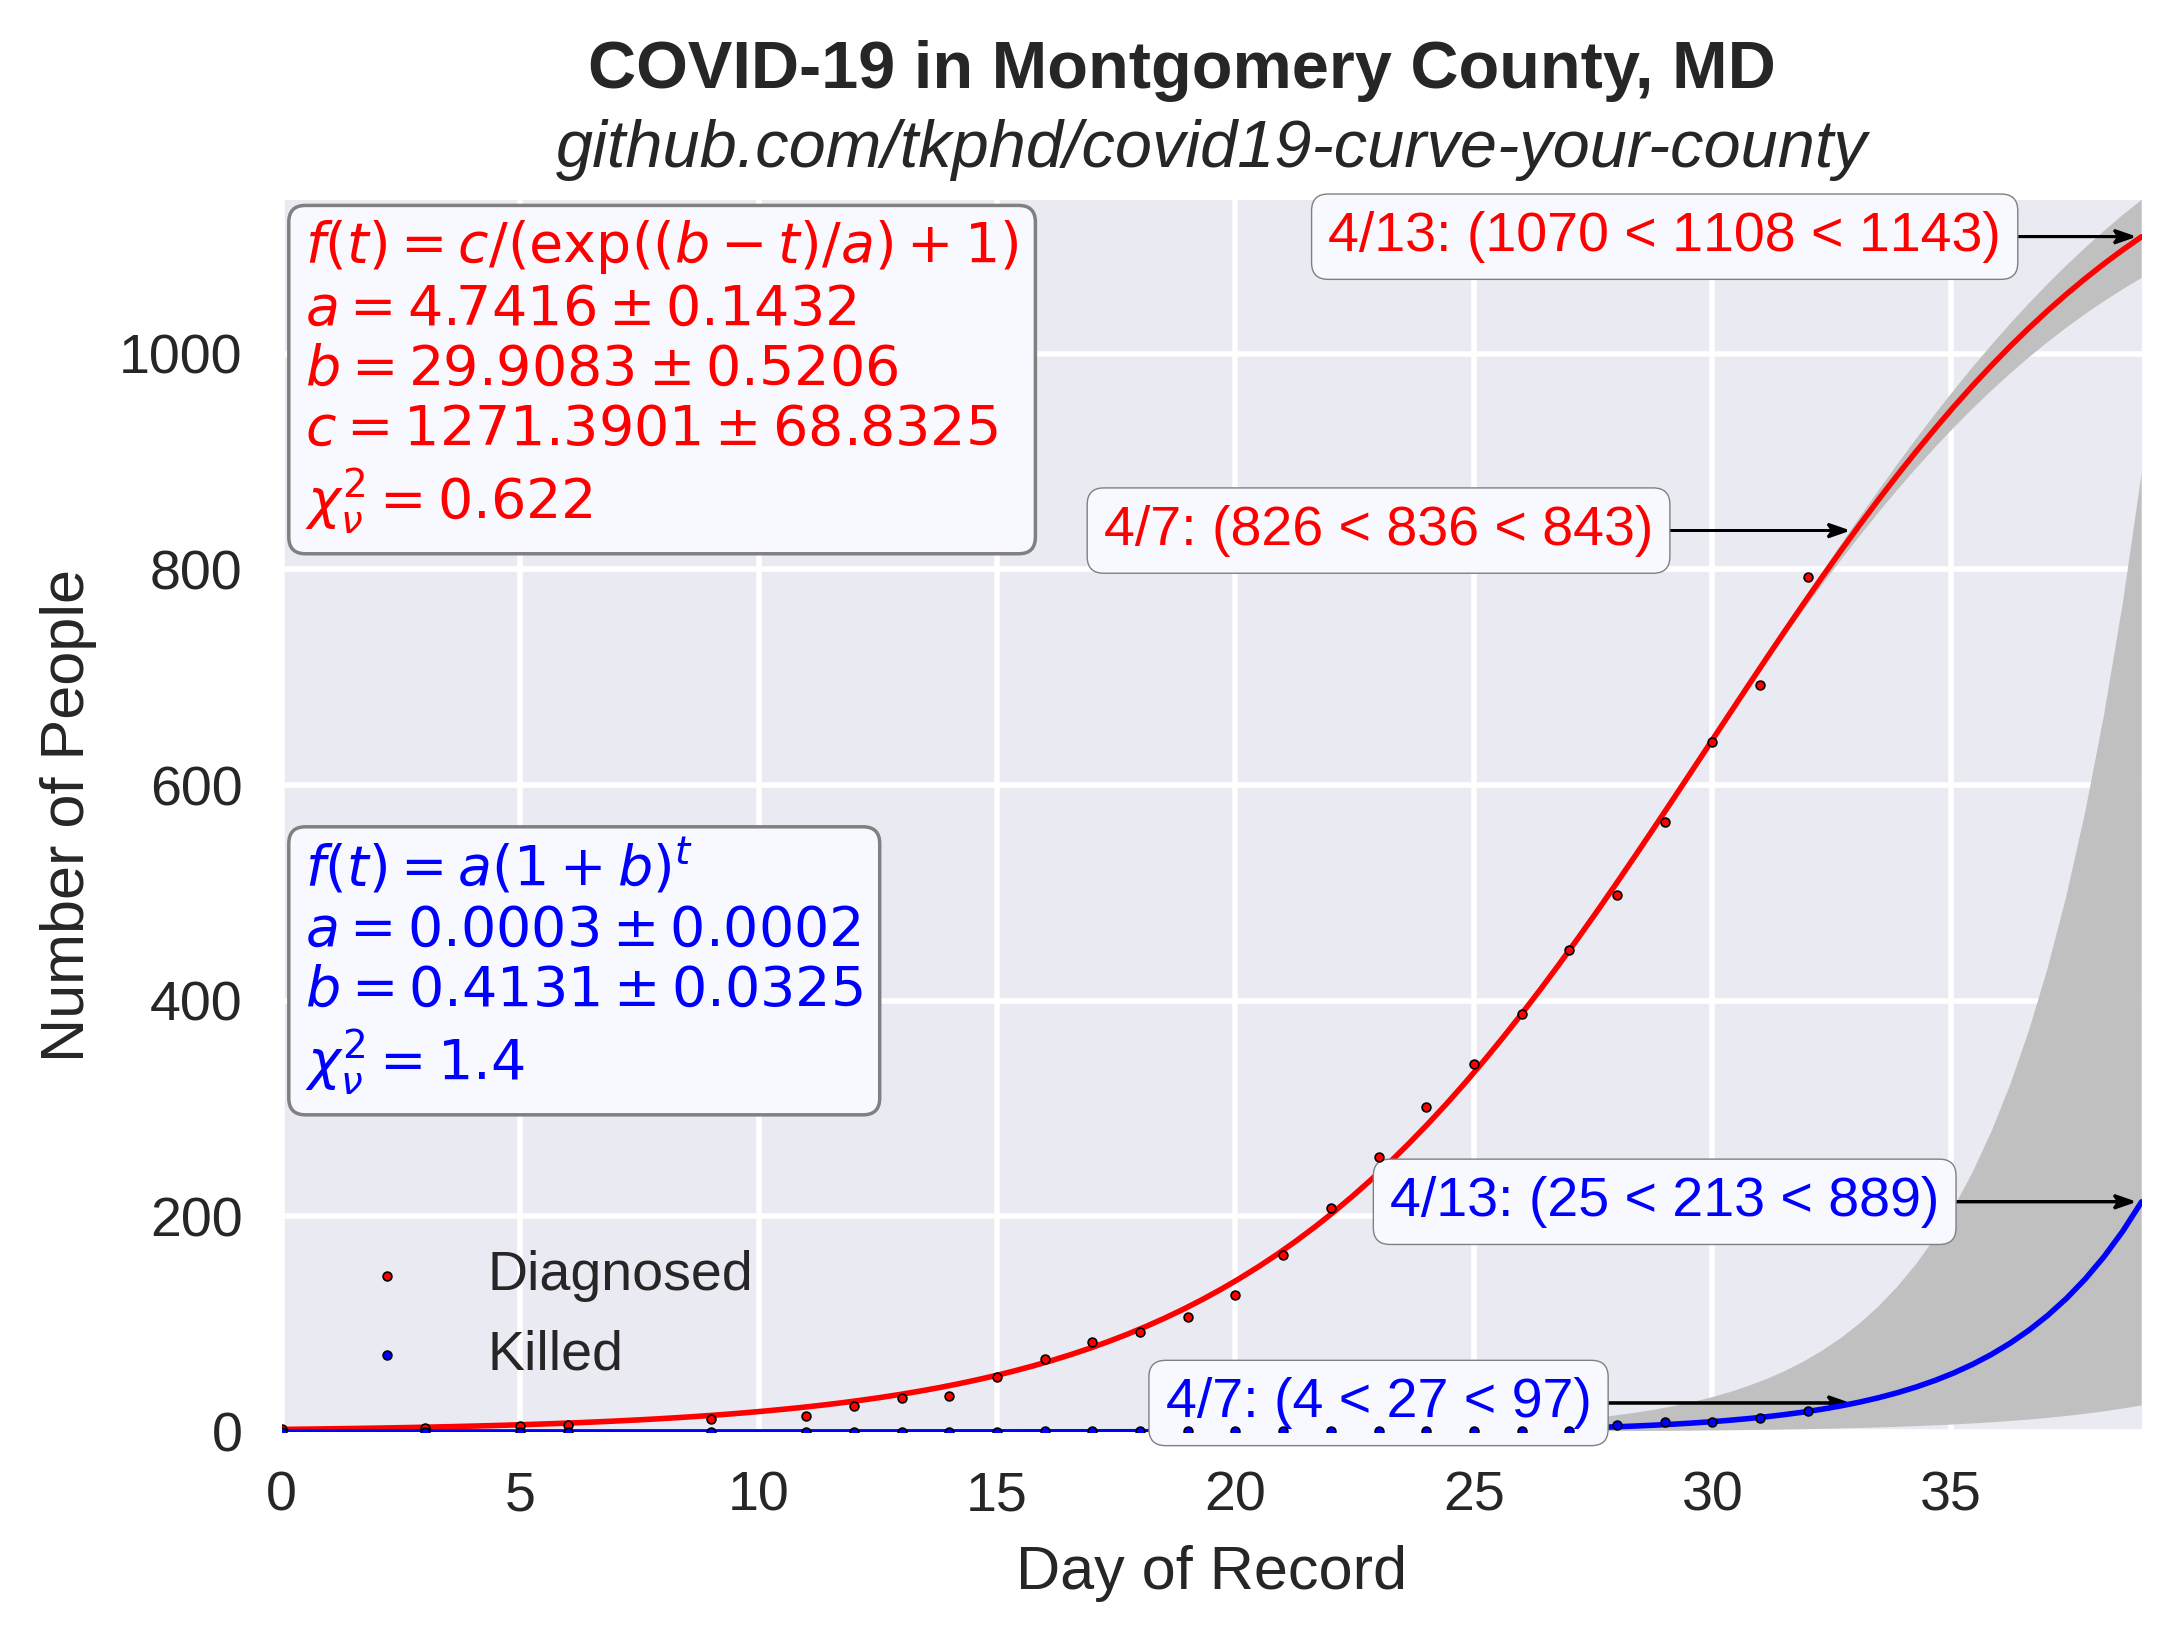
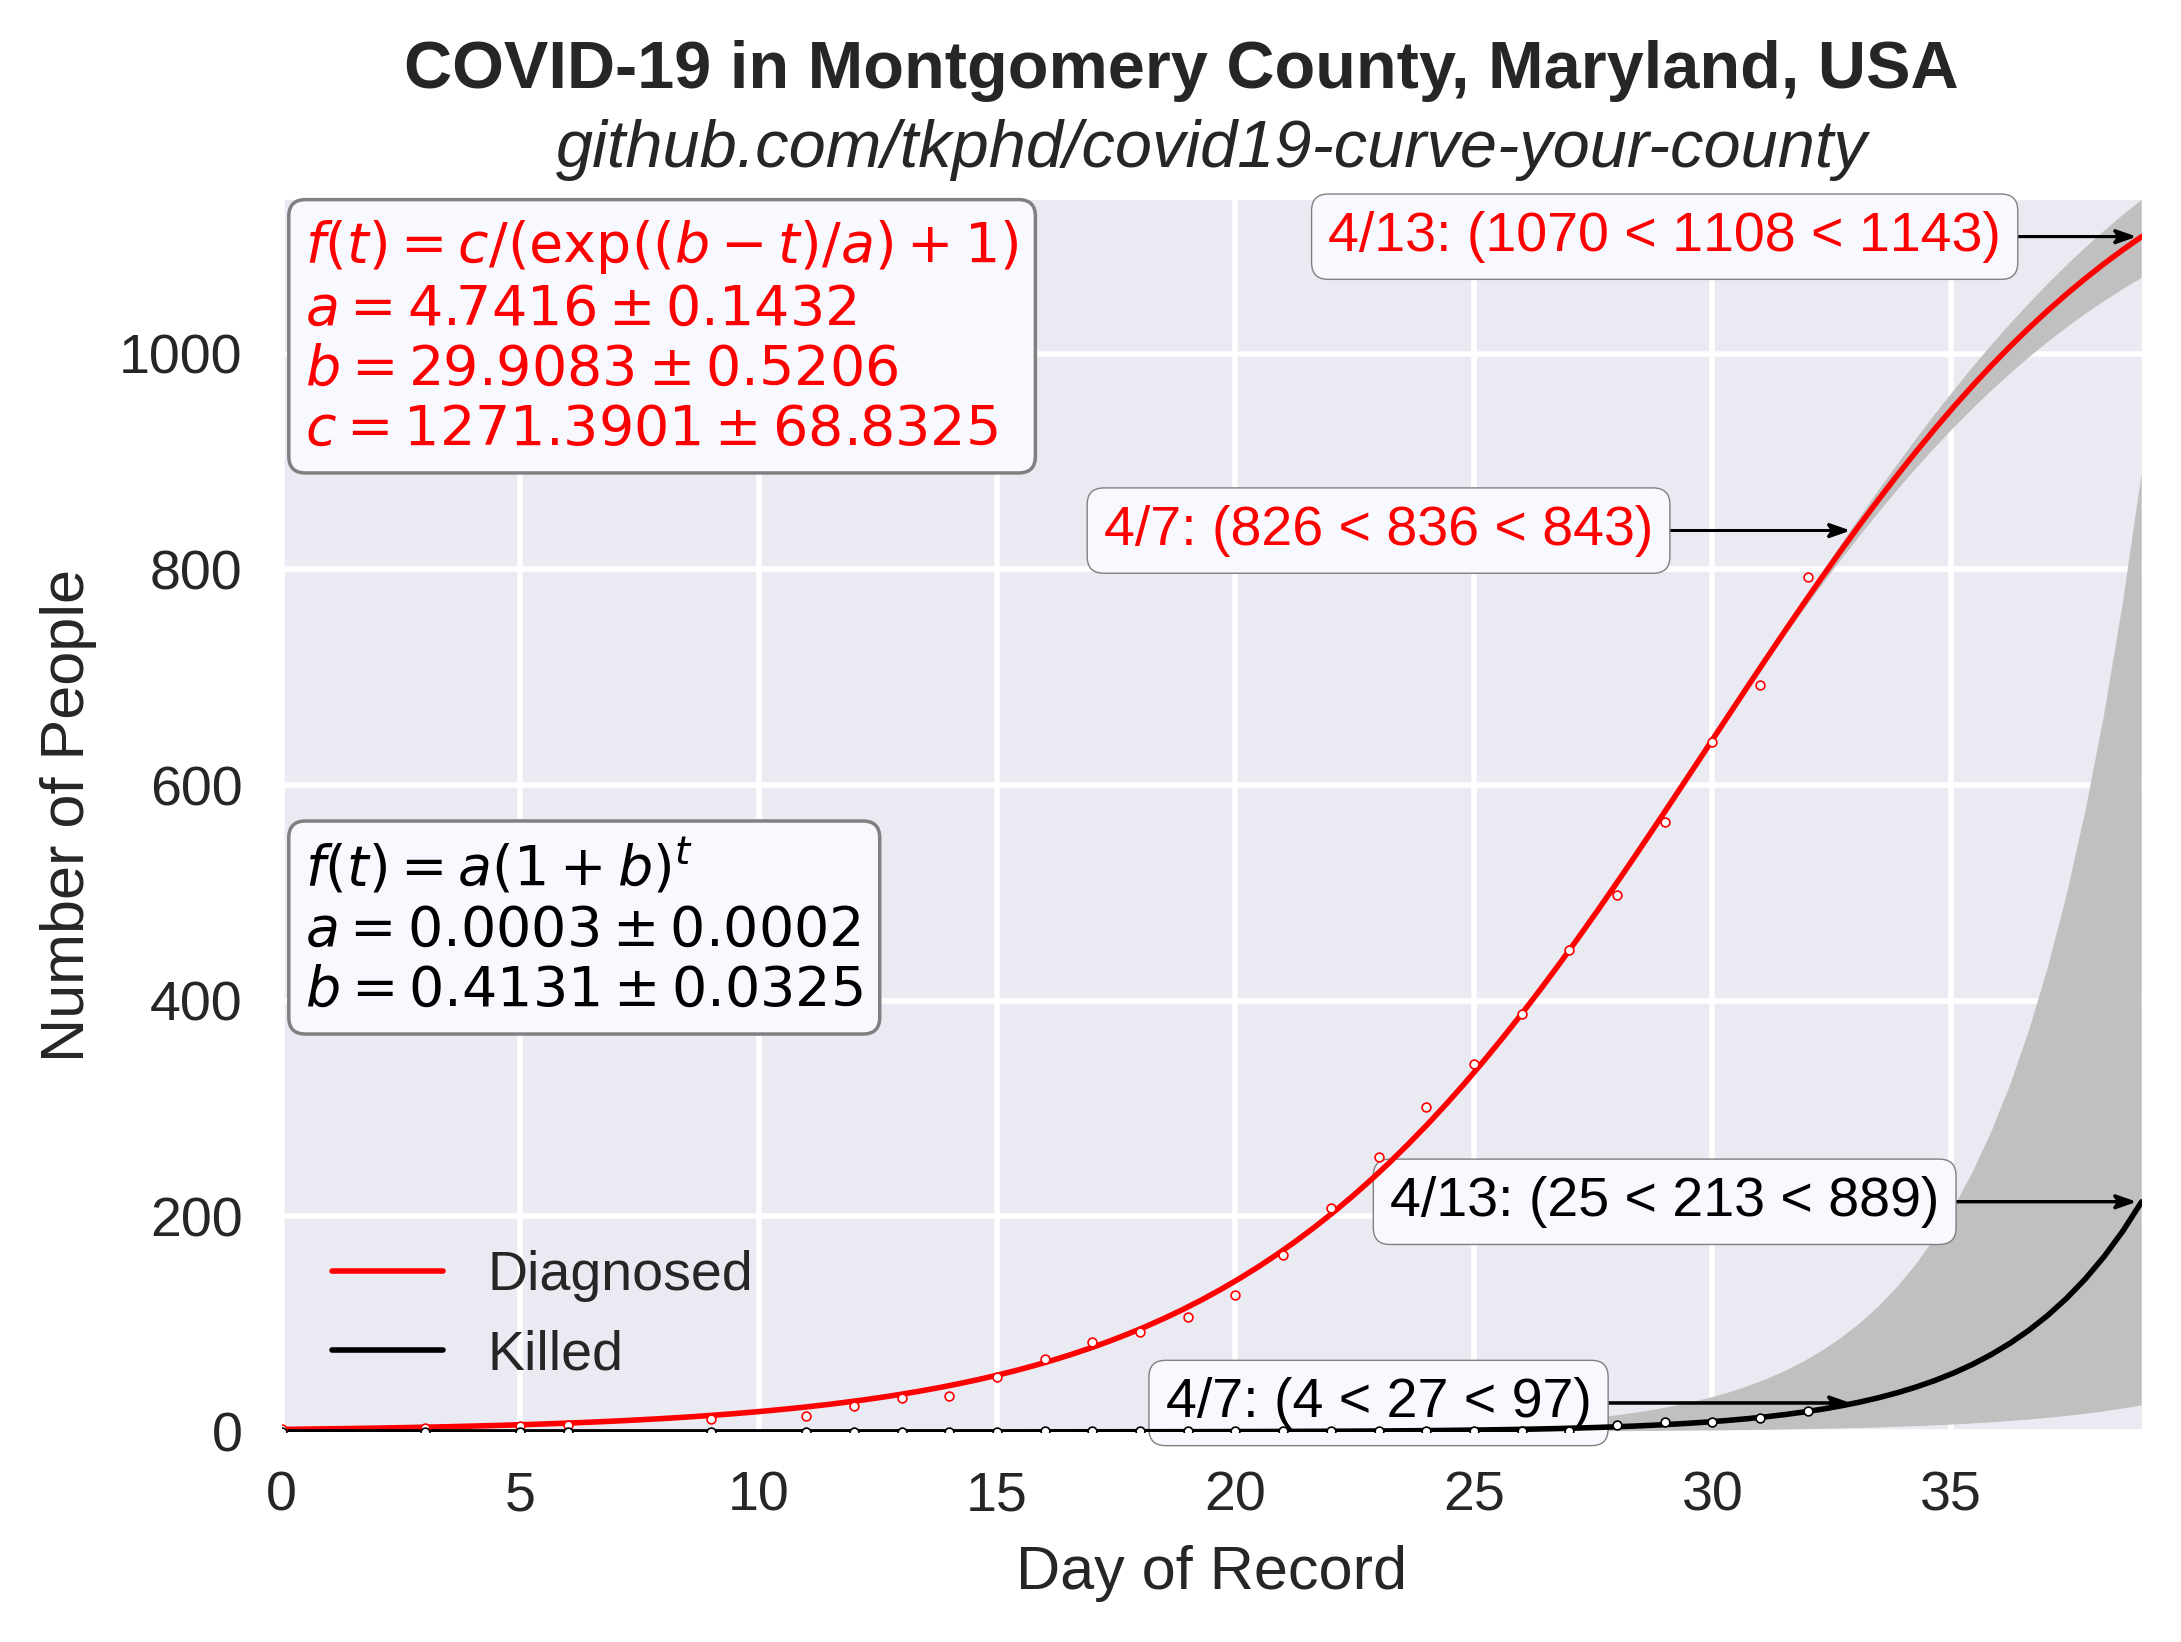
move chi-sq into new residuals plot

diff --git a/exponential.py b/exponential.py
@@ -12,14 +12,20 @@ models = {"diagnosed": "log",
 # Set colors for the plot
 
 colors = {"diagnosed": "red",
-          "killed": "blue"}
+          "killed": "black"}
 
 # Specify names for dataset (input) and plot (output)
 
 dataname = "us_md_montgomery.csv"
-
 imgname = "us_md_montgomery.png"
 
+# Prepare dicts for stats
+
+residuals = {"diagnosed": [],
+             "killed": []}
+
+chi_sq_red = {"diagnosed": 1.0,
+              "killed": 1.0}
 
 # Everything else is details
 
@@ -33,7 +39,6 @@ from scipy.optimize import curve_fit
 from scipy.stats import describe, chisquare, t
 from matplotlib import style
 style.use("seaborn")
-
 
 # Define the model equation and its Jacobian
 
@@ -58,7 +63,7 @@ def df_log(t, a, b, c):
                      1/(np.exp((b - t)/a) + 1)]).T
 
 fig = plt.figure(figsize=(6, 4))
-plt.suptitle("COVID-19 in Montgomery County, MD", fontweight="bold")
+plt.suptitle("COVID-19 in Montgomery County, Maryland, USA", fontweight="bold")
 plt.title("github.com/tkphd/covid19-curve-your-county", style="oblique")
 plt.xlabel("Day of Record")
 plt.ylabel("Number of People")
@@ -75,8 +80,8 @@ today = date(today.tm_year, today.tm_mon, today.tm_mday).toordinal()
 t_max = 0
 y_max = 0
 
-for col in columns:
-    model = models[col]
+for key in columns:
+    model = models[key]
     f  = f_exp
     df = df_exp
 
@@ -84,14 +89,14 @@ for col in columns:
         f  = f_log
         df = df_log
 
-    y = np.array(data[col])
+    y = np.array(data[key])
 
     t = np.zeros_like(y)
     for i in range(len(y)):
         day = strptime(data["date"].iloc[i], "%Y-%m-%d")
         t[i] = date(day.tm_year, day.tm_mon, day.tm_mday).toordinal() - start
 
-    plt.scatter(t, y, marker=".", s=10, color=colors[col], edgecolors="k", zorder=10, label=col.capitalize())
+    plt.scatter(t, y, marker=".", s=10, color="white", edgecolors=colors[key], zorder=10)
 
     # Levenburg-Marquardt Least-Squares Fit
     """
@@ -112,6 +117,9 @@ for col in columns:
     chisq, chip = chisquare(y, f(t, *p))
     ndof = len(y) - len(p) - 1
 
+    residuals[key] = f(t, *p) - y
+    chi_sq_red[key] = chisq / ndof
+
     # Confidence Band: dfdp represents the partial derivatives of the model with respect to each parameter p (i.e., a and b)
 
     t_hat = np.linspace(0, t[-1] + 7, 100)
@@ -124,7 +132,7 @@ for col in columns:
     lower = f(t_hat, *lwr_p)
 
     it = np.argsort(t_hat)
-    plt.plot(t_hat[it], y_hat[it], c=colors[col], lw=1, zorder=5)
+    plt.plot(t_hat[it], y_hat[it], c=colors[key], lw=1, zorder=5, label=key.capitalize())
     plt.fill_between(
         t_hat[it], upper[it], y_hat[it], edgecolor=None, facecolor="silver", zorder=1
     )
@@ -149,18 +157,18 @@ for col in columns:
     # Overlay model on plot
     if model == "exp":
         plt.text(0.5, 0.5 * (upper[1] + y_hat[1]),
-                 "$f(t) = a (1 + b)^t$\n$a = {0:.4f} \pm {2:.4f}$\n$b = {1:.4f} \pm {3:.4f}$\n$\\chi^2_\\nu={4:.3g}$".format(*p, *perr, chisq / ndof),
-                 color=colors[col],
+                 "$f(t) = a (1 + b)^t$\n$a = {0:.4f} \pm {2:.4f}$\n$b = {1:.4f} \pm {3:.4f}$".format(*p, *perr),
+                 color=colors[key],
                  va="top",
-                 zorder=5,
+                 zorder=4,
                  bbox=dict(boxstyle="round", ec="gray", fc="ghostwhite", linewidth=2.5*dx)
         )
     elif model == "log":
         plt.text(0.5, 0.5 * (upper[1] + y_hat[1]),
-                 "$f(t) = c / (\exp((b - t)/a) + 1)$\n$a = {0:.4f} \pm {3:.4f}$\n$b = {1:.4f} \pm {4:.4f}$\n$c = {2:.4f} \pm {5:.4f}$\n$\\chi^2_\\nu={6:.3g}$".format(*p, *perr, chisq / ndof),
-                 color=colors[col],
+                 "$f(t) = c / (\exp((b - t)/a) + 1)$\n$a = {0:.4f} \pm {3:.4f}$\n$b = {1:.4f} \pm {4:.4f}$\n$c = {2:.4f} \pm {5:.4f}$".format(*p, *perr),
+                 color=colors[key],
                  va="top",
-                 zorder=5,
+                 zorder=4,
                  bbox=dict(boxstyle="round", ec="gray", fc="ghostwhite", linewidth=2.5*dx)
         )
 
@@ -171,10 +179,10 @@ for col in columns:
         "{0}/{1}: ({2:.0f} < {3:.0f} < {4:.0f})".format(
             tomorrow.month, tomorrow.day, lower[0], y_hat[0], upper[0]
         ),
-        color=colors[col],
+        color=colors[key],
         va="center",
         ha="center",
-        zorder=5,
+        zorder=4,
         bbox=dict(boxstyle="round", ec="gray", fc="ghostwhite", linewidth=dx)
     )
 
@@ -184,10 +192,10 @@ for col in columns:
         "{0}/{1}: ({2:.0f} < {3:.0f} < {4:.0f})".format(
             nextWeek.month, nextWeek.day, lower[1], y_hat[1], upper[1]
         ),
-        color=colors[col],
+        color=colors[key],
         va="center",
         ha="center",
-        zorder=5,
+        zorder=4,
         bbox=dict(boxstyle="round", ec="gray", fc="ghostwhite", linewidth=dx)
     )
 
@@ -237,3 +245,31 @@ plt.ylim([0, y_max])
 
 plt.legend(loc="lower left")
 plt.savefig(imgname, dpi=400, bbox_inches="tight")
+plt.close()
+
+
+# Plot residuals
+
+fig = plt.figure(figsize=(6, 4))
+plt.title("Residuals: $y - f(t)$")
+plt.xlabel("Day of Record")
+plt.ylabel("Residual")
+
+N = 5
+
+for key in columns:
+    y = residuals[key]
+    x = np.arange(0, len(y))
+    plt.bar(x, y, align="edge", color=colors[key],
+            label="{0}: $\\chi^2_\\nu={1:.3g}$".format(key.capitalize(), chi_sq_red[key]))
+    """
+    mov_avg = np.convolve(y, np.ones((N,))/N, mode='valid')
+    x = np.arange(N-3, len(y)-(N-3))
+    plt.scatter(x, mov_avg, color=colors[key])
+    """
+
+plt.legend(loc="best")
+plt.xlim([0, len(y)])
+plt.savefig("residuals.png", dpi=400, bbox_inches="tight")
+plt.close()
+

diff --git a/README.md b/README.md
@@ -54,3 +54,19 @@ least-squares fit.
 
 5. Share your findings to help others assess the spread of SARS-CoV-2, and to gauge the
    effectiveness of our collective response.
+
+## Statistics
+
+For non-linear curve fitting, the [reduced chi-squared
+statistic](https://en.wikipedia.org/wiki/Reduced_chi-squared_statistic) provides an indication of
+the goodness-of-fit. It is also instructive to look at the *residual*, or difference between the
+real value and its fitted estimate each day,
+
+``` math
+res = y - f(t)
+```
+
+These parameters are plotted below, with `ν = len(t) - len(p) - 1` degrees of freedom (*p* is the
+number of fitting *p*arameters).
+
+![res](residuals.png)
